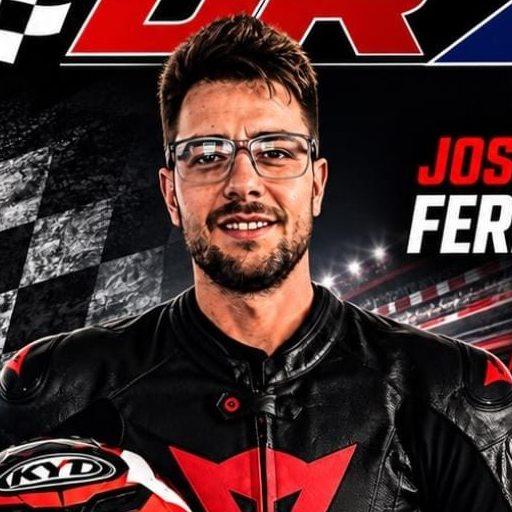
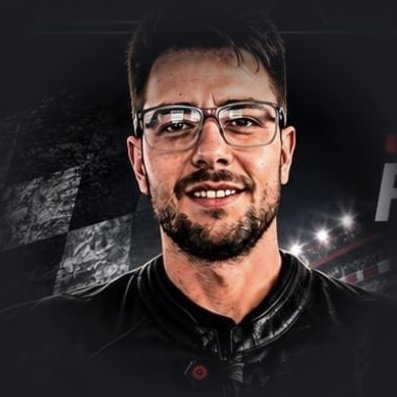
Fotos de piloto uniformes: mismo encuadre, fondo fundido al mismo gris y menos saturación

diff --git a/CLAUDE.md b/CLAUDE.md
@@ -441,7 +441,11 @@ Los carteles que publica cada liga se guardan tal cual en `FOTOS PILOTOS/`
 (Jorge los deja ahí, con cualquier nombre). `scripts/fotos.ps1` recorta la cara
 de cada uno en un cuadrado de 320 px y lo deja en `fotos/<id>.jpg`; lleva una
 tabla con el fichero, el id del piloto y dónde está la cara en fracción del
-cartel, porque un recorte fijo cortaba cabezas. Después, la ruta va en el censo
+cartel, porque un recorte fijo cortaba cabezas. Después baja un poco la
+saturación, funde todo lo que rodea la cara hacia el mismo gris (`#1b1d22`)
+con un degradado radial y apaga la franja alta, donde va el logo del cartel:
+Jorge pidió el 10/09/2026 que fueran todas del mismo tamaño y fondo, "que no
+parezca un corta y pega". El encuadre se ajusta a ojo con `cx`/`cy`. Después, la ruta va en el censo
 (`datos/pilotos.json`, campo `foto`) y `generar.mjs` la pasa a la web.
 
 La web pinta la foto en todos los avatares —podio, filas, ficha, portada y
